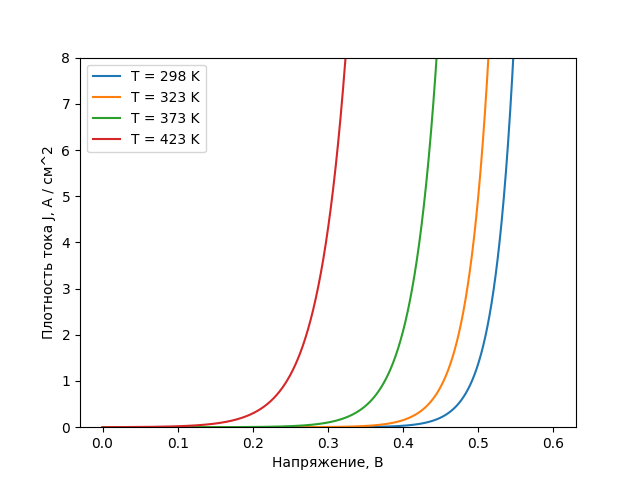
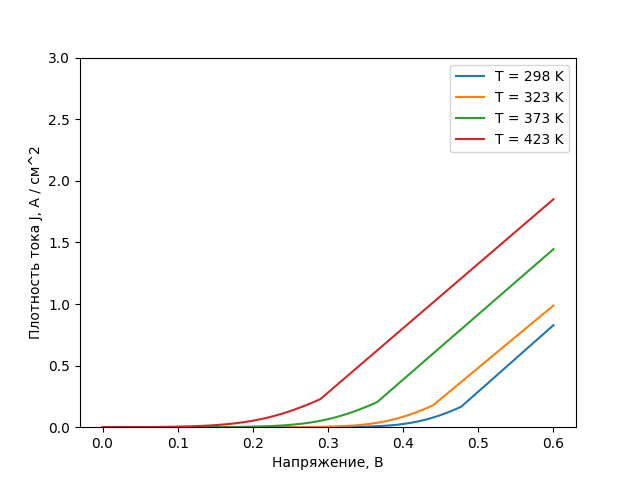
+ новая аппроксимация

diff --git a/src/current_modelling.py b/src/current_modelling.py
@@ -9,24 +9,20 @@ POTENTIAL = 0.86
 K = 1.38 * math.pow(10, -23)
 N = 1.03
 R = 159.2
+S = 4 * math.pi * math.pow(10, -4)
 
 
-def saturationCurrentDensity(temperature):
+def saturation_current_density(temperature):
     return A * math.pow(temperature, 2) * np.exp(
         -Q * POTENTIAL / temperature / K)
 
 
-def currentDensity(temperature, voltage):
-    return saturationCurrentDensity(temperature) * \
-           (np.exp(Q * voltage / N / K / temperature) - 1)
-
-
-def upgradeSomeCurrent(temperature, voltage):
+def upgrade_some_current(temperature, voltage):
     startCurrent = 0
     currentValues = array.array('f', [])
 
     for v in range(len(voltage)):
-        current = saturationCurrentDensity(temperature) * (np.exp(
+        current = saturation_current_density(temperature) * (np.exp(
             Q * (voltage[v] - startCurrent * R) / N / K / temperature) - 1)
         currentValues.append(current)
         startCurrent = current
@@ -34,41 +30,55 @@ def upgradeSomeCurrent(temperature, voltage):
     return currentValues
 
 
-def sortedUpgradeCurrentDensity(temperature, voltage):
-    currentValues = upgradeSomeCurrent(temperature, voltage)
-    lengthOfArray = len(currentValues)
-    for current in range(lengthOfArray - 1):
-        if currentValues[current] > currentValues[(current + 1)]:
-            continue
-        else:
-            currentValues[current] = (currentValues[current - 1] + currentValues[current + 1]) / 2
+def get_oscillation_index(temperature, voltage):
+    currentValues = current_density(temperature, voltage)
+    for current in range(len(currentValues) - 1):
+        if currentValues[current] > currentValues[current + 1]:
+            return current
 
-    if currentValues[lengthOfArray - 1] < currentValues[lengthOfArray - 2]:
-        currentValues[lengthOfArray - 1] = 2 * currentValues[lengthOfArray - 2] - \
-                                           currentValues[lengthOfArray - 3]
-    currentValues[0] = 0
+
+def current_density(temperature, voltage):
+    startCurrent = 0
+    currentValues = array.array('f', [])
+
+    for v in range(len(voltage)):
+        current = saturation_current_density(temperature) * (np.exp(
+            Q * (voltage[v] - startCurrent * R * S) / N / K / temperature) - 1)
+        currentValues.append(current)
+        startCurrent = current
+
     return currentValues
 
 
-def showUpgradeCurrentDensity():
+def sort_current_density(temperature, voltage):
+    oscillationIndex = get_oscillation_index(temperature, voltage)
+    currentValues = current_density(temperature, voltage)
+    delta = currentValues[oscillationIndex] - currentValues[oscillationIndex - 1]
+
+    for current in range(oscillationIndex, len(currentValues)):
+        currentValues[current] = currentValues[current - 1] + delta
+
+    return currentValues
+
+
+def show_upgrade_current_density():
     v = np.linspace(0, 0.6, 10000)
 
-    plt.plot(v, sortedUpgradeCurrentDensity(298, v), label='T = 298 K')
-    plt.plot(v, sortedUpgradeCurrentDensity(323, v), label='T = 323 K')
-    plt.plot(v, sortedUpgradeCurrentDensity(373, v), label='T = 373 K')
-    plt.plot(v, sortedUpgradeCurrentDensity(423, v), label='T = 423 K')
+    plt.plot(v, sort_current_density(298, v), label='T = 298 K')
+    plt.plot(v, sort_current_density(323, v), label='T = 323 K')
+    plt.plot(v, sort_current_density(373, v), label='T = 373 K')
+    plt.plot(v, sort_current_density(423, v), label='T = 423 K')
 
-    plt.ylim(0, 8 * math.pow(10, 0))
+    plt.ylim(0, 3 * math.pow(10, 0))
     plt.xlabel("Напряжение, В")
     plt.ylabel("Плотность тока J, А / см^2")
     plt.legend()
     plt.show()
 
 
-def someTestValues(temperature):
+def some_test_values(temperature):
     v = np.linspace(0, 0.6, 6000)
-    currentValues = sortedUpgradeCurrentDensity(temperature, v)
-
+    currentValues = sort_current_density(temperature, v)
     # точки V = 0, 0.1, 0.2 ... 0.6
     for numb in range(6):
         print("Значение плотности тока для температуры " + str(temperature) + "К: " + str(currentValues[numb * 1000]))

diff --git a/src/main.py b/src/main.py
@@ -2,8 +2,8 @@ from src import capacity_modelling, current_modelling
 
 if __name__ == "__main__":
     # ВАХ диода Шоттки
-    current_modelling.showUpgradeCurrentDensity()
-    current_modelling.someTestValues(298)
+    current_modelling.show_upgrade_current_density()
+    current_modelling.some_test_values(298)
 
     # Зависимость квадрата 1/С к напряжению диода Шоттки
     capacity_modelling.showCapacity()
